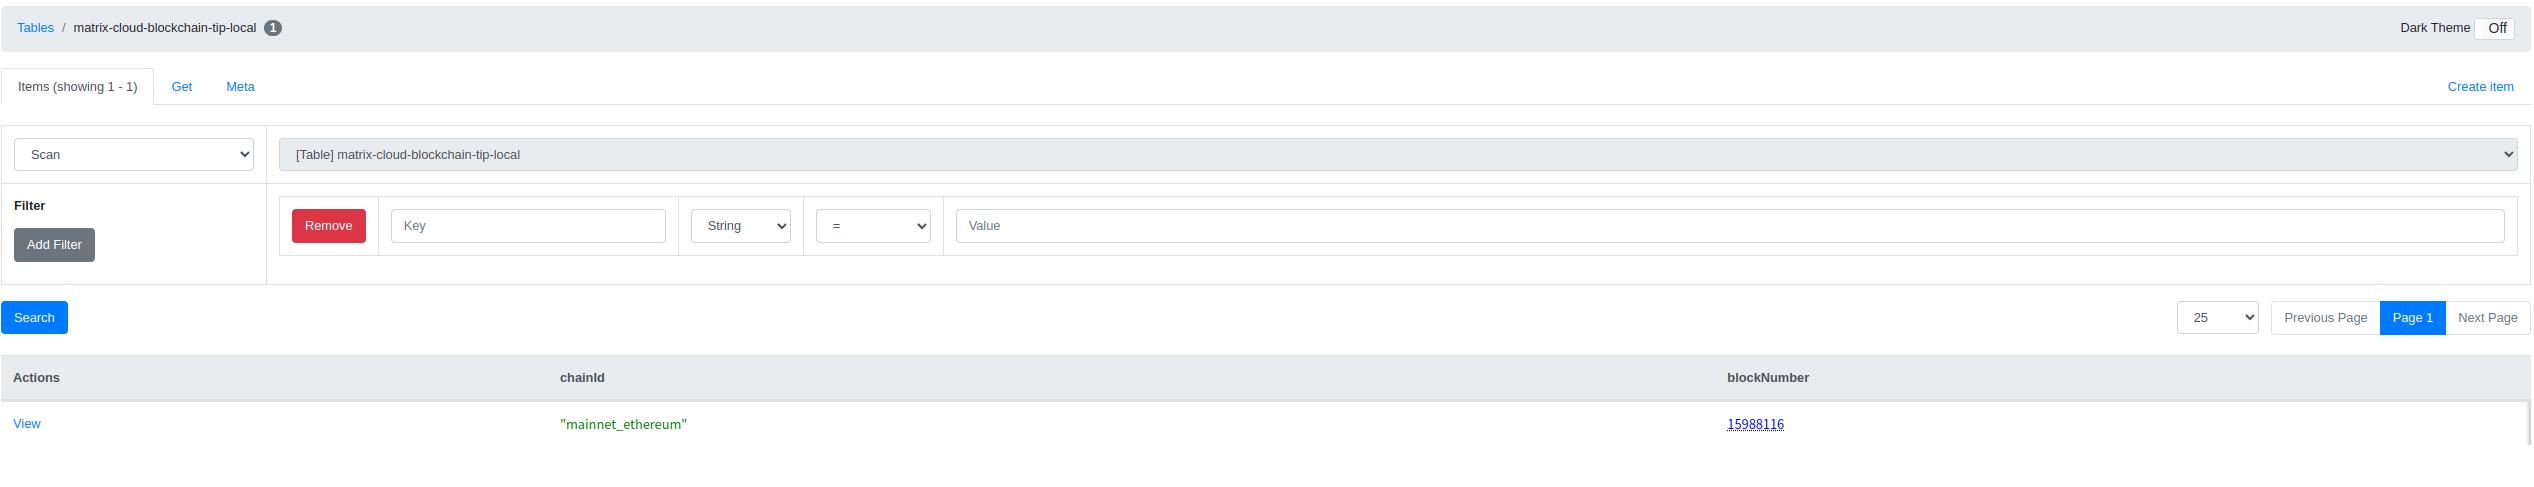
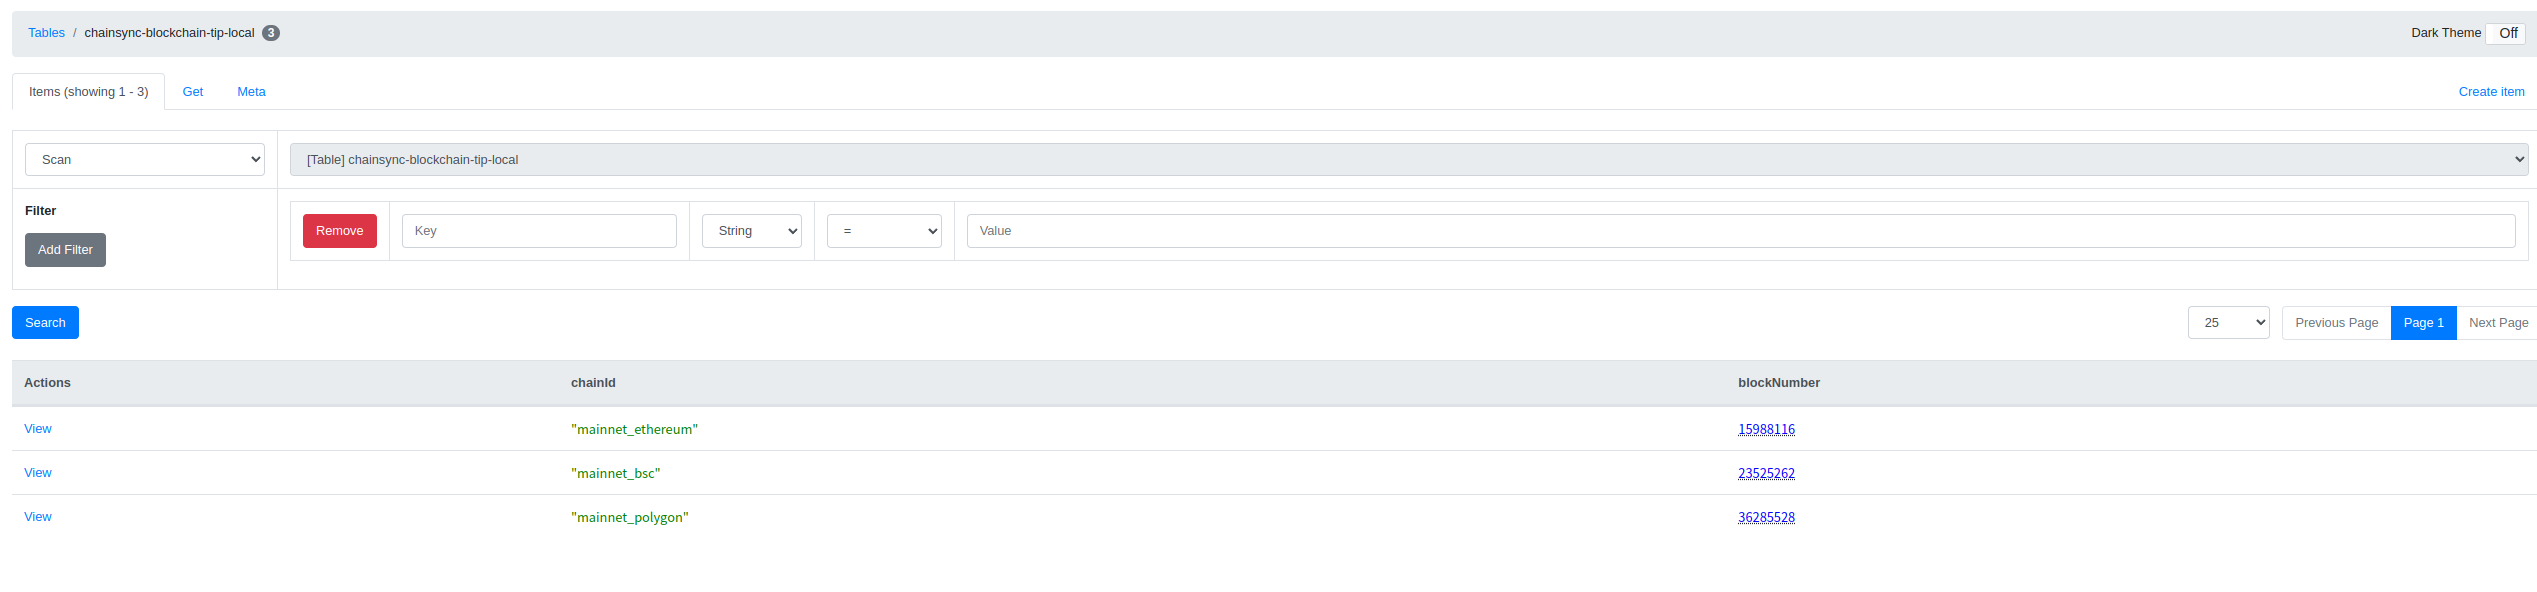
update image

diff --git a/README.md b/README.md
@@ -39,8 +39,16 @@ Open the table chainsync-blockchain-tip-local and add the following objects:
 
 ``` json
 {
-  "chainId": "mainnet_ethereum",
-  "blockNumber": 15988116
+    "chainId": "mainnet_ethereum",
+    "blockNumber": 15988116
+}
+{
+    "chainId": "mainnet_bsc",
+    "blockNumber": 23525262
+}
+{
+    "chainId": "mainnet_polygon",
+    "blockNumber": 36285528
 }
 ```
 
